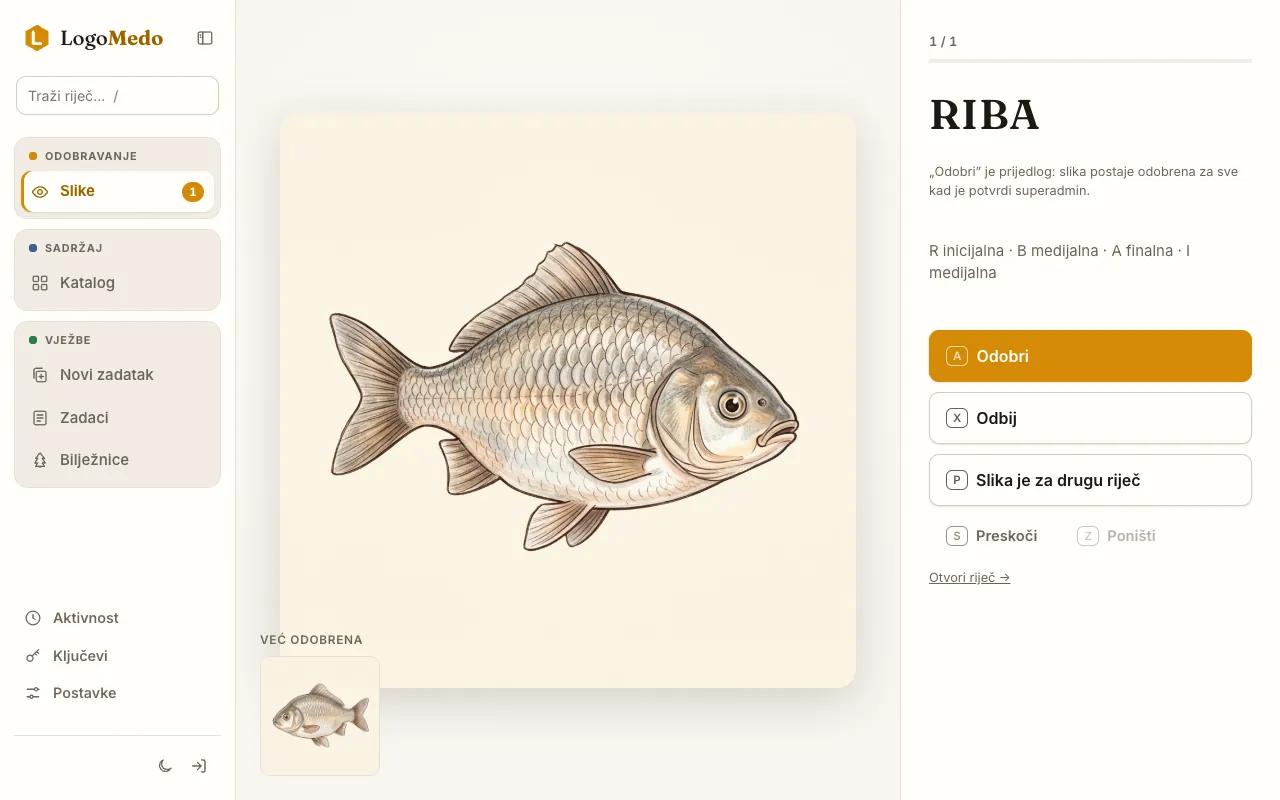
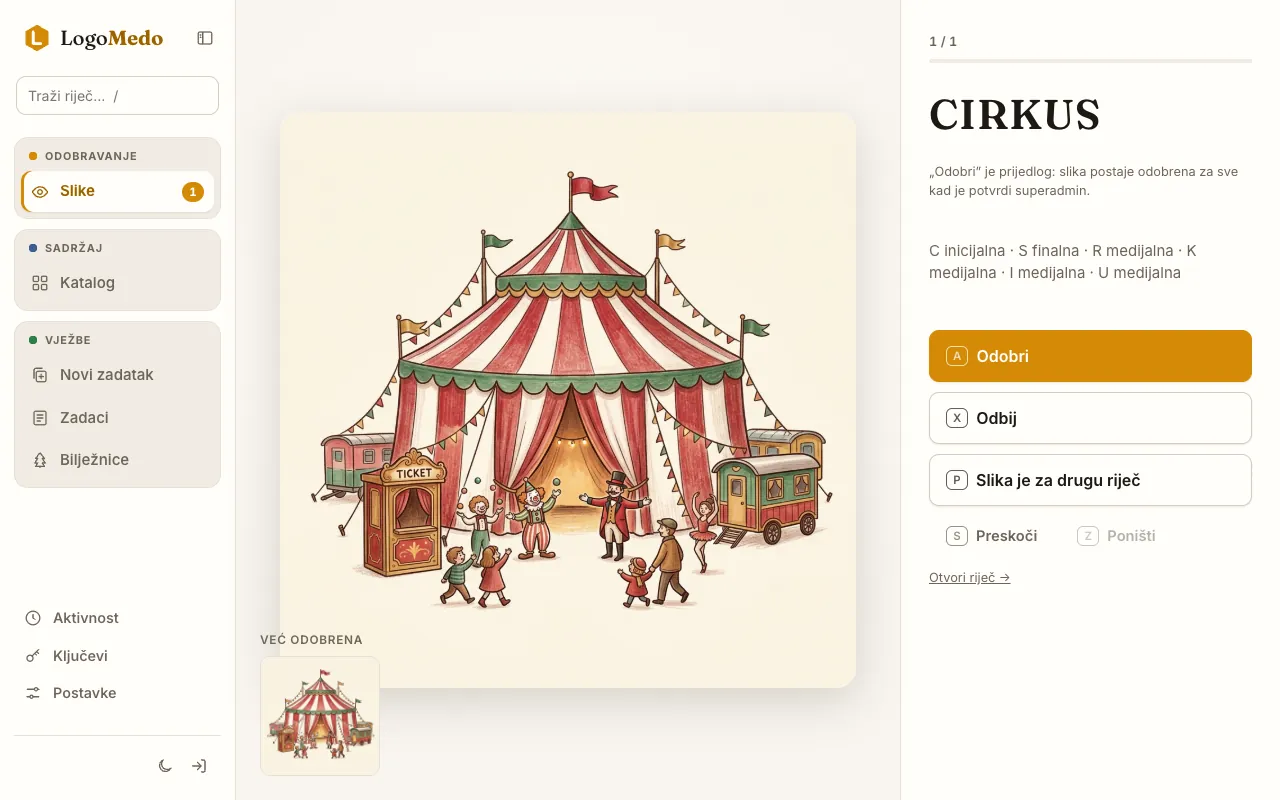
feat(landing): cirkus umjesto ribe na snimci pregleda slike (odluka 801)
Claude-Session: https://claude.ai/code/session_015y6PHnVoXKv6mj4JuCF3KD

diff --git a/scripts/landing-snimke.ts b/scripts/landing-snimke.ts
@@ -4,6 +4,7 @@
 //   node scripts/landing-snimke.ts                 # sve snimke
 //   node scripts/landing-snimke.ts V-2 V-7         # samo te
 //   node scripts/landing-snimke.ts --pripremi      # jednom: probni zadaci, bilježnice i slika za pregled (vidi dolje)
+//   node scripts/landing-snimke.ts --pregled       # nova slika-kandidat za V-10 (PREGLED), stara se odbije na stagingu
 //   node scripts/landing-snimke.ts --rime          # samo upiše fiksne rime (RIME) u postojeći zadatak „Rima”
 //
 // Prijava: kolačić sesije iz env LOGOMEDO_KOLACIC ili ~/.cache/logomedo-staging/kolacic (samo vrijednost,
@@ -20,8 +21,8 @@
 // --pripremi (nakon svakog `scripts/staging-osvjezi.sh`, jer osvježavanje briše staging podatke) kroz iste HTTP forme
 // kao admin UI napravi: listić „Glas R na početku” (dva: bez okvira i s okvirom), „Prvi glas” (kolo slova),
 // „Prebrajanje slogova”, „Rima”, „Izbaci uljeza”, „Isti prvi glas”, scenu „Pečemo kolačiće”, bilježnice „Zimska
-// bilježnica” (Božić) i „Proljetna bilježnica” (Proljeće), javne, i jednu sliku-kandidata za /admin/pregled (zrcaljena
-// kopija odobrene ilustracije ribe s cdn.logomedo.com, učitana kao upload). Ne generira ništa (Vertex, ElevenLabs, runner).
+// bilježnica” (Božić) i „Proljetna bilježnica” (Proljeće), javne, i jednu sliku-kandidata za /admin/pregled (malo
+// izmijenjena kopija odobrene ilustracije cirkusa s cdn.logomedo.com, učitana kao upload). Ne generira ništa (Vertex, ElevenLabs, runner).
 import { chromium, type Browser, type BrowserContext, type Page } from "playwright-core";
 import { execFileSync } from "node:child_process";
 import { copyFileSync, existsSync, mkdirSync, mkdtempSync, readFileSync, statSync, writeFileSync } from "node:fs";
@@ -440,6 +441,37 @@ async function postaviRime(page: Page, id: number) {
   await spremi(page, id, { sadrzaj: { odnos: "rima", stavke: RIME.map(([z, p, t]) => ({ zadana: rid(z), ponudeno: p.map(rid), tocno: t })) } });
 }
 
+/**
+ * Slika za /admin/pregled (V-10): malo izmijenjena kopija odobrene ilustracije cirkusa, upload kao kandidat (ne generira se).
+ * Do odluke 801 bila je riba.
+ */
+const PREGLED = { rijec: "cirkus", kljuc: "ilustracija/cirkus/c2f5720c99964f3c.png" } as const;
+
+async function slikaZaPregled(page: Page, rijeci: PodaciEditora["rijeci"]): Promise<number | null> {
+  const r = rijeci.find((x) => x.rijec.toLocaleLowerCase("hr") === PREGLED.rijec);
+  if (!r) { console.warn(`Slika za pregled: nema riječi „${PREGLED.rijec}”.`); return null; }
+  const o = await fetch(`https://cdn.logomedo.com/${PREGLED.kljuc}`);
+  if (!o.ok) { console.warn(`Slika za pregled: CDN ${o.status}.`); return null; }
+  const png = join(mkdtempSync(join(tmpdir(), "snimke-upload-")), `${PREGLED.rijec}.png`);
+  writeFileSync(png, Buffer.from(await o.arrayBuffer()));
+  // Neznatno izmijenjena (zasićenje +2 %), da nije isti sha kao odobrena; ne zrcali se, jer bi natpis „TICKET” bio naopak.
+  execFileSync("magick", [png, "-modulate", "100,102", png], { stdio: "ignore" });
+  const b64 = readFileSync(png).toString("base64");
+  await page.goto(`${HOST}/admin/pregled`, { waitUntil: "domcontentloaded" });
+  const kamo = await page.evaluate(async ({ b64, rijec, ime }) => {
+    const bajtovi = Uint8Array.from(atob(b64), (c) => c.charCodeAt(0));
+    const f = new FormData();
+    f.append("slika", new File([bajtovi], ime, { type: "image/png" }));
+    f.append("rijec", String(rijec)); f.append("stil", "ilustracija"); f.append("next", "/admin/pregled");
+    f.append("prompt", "Probna slika za snimku landing stranice: kopija odobrene ilustracije.");
+    const o = await fetch("/admin/api/upload", { method: "POST", body: f });
+    return new URL(o.url).search;
+  }, { b64, rijec: r.id, ime: `${PREGLED.rijec}.png` });
+  const id = Number(new URLSearchParams(kamo).get("ucitano")) || null;
+  if (!id) console.warn("Upload slike za pregled nije uspio.");
+  return id;
+}
+
 const nasumicno = () => Math.random().toString(36).slice(2, 8);
 
 async function pripremi() {
@@ -499,31 +531,7 @@ async function pripremi() {
       proljetna: await biljeznica("Proljetna bilježnica", "proljece", [z.istiGlas, z.prviGlas, z.slogovi]),
     };
 
-    // Slika za /admin/pregled: zrcaljena kopija odobrene ilustracije ribe, upload kao kandidat (ne generira se).
-    let slikaPregleda: number | null = null;
-    const riba = pe.rijeci.find((x) => x.rijec.toLocaleLowerCase("hr") === "riba");
-    if (riba) {
-      const dir = mkdtempSync(join(tmpdir(), "snimke-upload-"));
-      const png = join(dir, "riba.png");
-      const o = await fetch("https://cdn.logomedo.com/ilustracija/riba/08b78c1b64f7ace1.png");
-      if (o.ok) {
-        writeFileSync(png, Buffer.from(await o.arrayBuffer()));
-        execFileSync("sips", ["-f", "horizontal", png], { stdio: "ignore" });
-        const b64 = readFileSync(png).toString("base64");
-        await page.goto(`${HOST}/admin/pregled`, { waitUntil: "domcontentloaded" });
-        const kamo = await page.evaluate(async ({ b64, rijec }) => {
-          const bajtovi = Uint8Array.from(atob(b64), (c) => c.charCodeAt(0));
-          const f = new FormData();
-          f.append("slika", new File([bajtovi], "riba.png", { type: "image/png" }));
-          f.append("rijec", String(rijec)); f.append("stil", "ilustracija"); f.append("next", "/admin/pregled");
-          f.append("prompt", "Probna slika za snimku landing stranice: zrcaljena kopija odobrene ilustracije.");
-          const o = await fetch("/admin/api/upload", { method: "POST", body: f });
-          return new URL(o.url).search;
-        }, { b64, rijec: riba.id });
-        slikaPregleda = Number(new URLSearchParams(kamo).get("ucitano")) || null;
-        if (!slikaPregleda) console.warn("Upload slike za pregled nije uspio.");
-      }
-    }
+    const slikaPregleda = await slikaZaPregled(page, pe.rijeci);
 
     mkdirSync(CACHE, { recursive: true });
     writeFileSync(PROBNI, JSON.stringify({ zadaci: z, biljeznice, slikaPregleda } satisfies Probni, null, 2), { mode: 0o600 });
@@ -547,6 +555,29 @@ async function samoRime() {
   }
 }
 
+/**
+ * --pregled: nova slika za V-10 (PREGLED). Stari kandidat u staging D1 postaje „odbijena” (wrangler, samo staging), da
+ * pregled ima točno jednu sliku; novi ID ide u probni.json.
+ */
+async function samoPregled() {
+  const p: Probni = JSON.parse(readFileSync(PROBNI, "utf8"));
+  if (p.slikaPregleda) execFileSync("npx", ["wrangler", "d1", "execute", "DB", "--remote", "--config", "wrangler.jsonc", "--env", "staging",
+    "--command", `UPDATE slike SET status = 'odbijena' WHERE id = ${Number(p.slikaPregleda)} AND status = 'kandidat'`],
+    { stdio: "ignore", cwd: join(import.meta.dirname, ".."), env: { ...process.env, CLOUDFLARE_ACCOUNT_ID: "7dc7167b7e2e00923bfa7cd697df14e4" } });
+  const b = await chromium.launch({ channel: "chrome" });
+  try {
+    const ctx = await kontekst(b, "desktop", "svijetla");
+    const page = await ctx.newPage();
+    p.slikaPregleda = await slikaZaPregled(page, (await editor(page, p.zadaci.scena)).rijeci);
+    await ctx.unrouteAll({ behavior: "ignoreErrors" });
+    writeFileSync(PROBNI, JSON.stringify(p, null, 2), { mode: 0o600 });
+    console.log(`Slika za pregled: ${p.slikaPregleda ? "nova" : "nije uspjela"}.`);
+  } finally {
+    await b.close();
+  }
+}
+
 if (process.argv.includes("--pripremi")) await pripremi();
+else if (process.argv.includes("--pregled")) await samoPregled();
 else if (process.argv.includes("--rime")) await samoRime();
 else await snimaj(process.argv.slice(2).filter((a) => /^V-\d+$/.test(a)));

diff --git a/docs/landing/decisions.md b/docs/landing/decisions.md
@@ -392,3 +392,7 @@ Lighthouse: `research/2026-11-19-lighthouse.md`. Staging `05029b71`, provjera 14
      bilježnica) više nije nasumičan iz predloška (bile su FRULA–BROKULA i SLOVA–SOVA): `RIME` u
      `scripts/landing-snimke.ts` (KAPA–ŠAPA, ČAJ–ZMAJ, SLON–BALON, CRKVA–MRKVA), `--rime` ih upiše u postojeći
      probni zadatak. V-4 tako pokazuje SLON–BALON, V-20 CRKVA–MRKVA. `sadrzaj.md` i dalje vrijedi i usklađen je.
+801. **Bez ribe i na snimci pregleda** (korisnik): V-10 (`/katalog`, „Svaku sliku pregleda logoped”) pokazuje kandidata
+     CIRKUS (`ilustracija/cirkus/c2f5720c99964f3c.png`) umjesto RIBE. Kopija se više ne zrcali (natpis „TICKET” bio bi
+     naopak), nego dobije zasićenje +2 %, da sha nije isti kao odobrenoj. `scripts/landing-snimke.ts --pregled` stari
+     kandidat u staging D1 označi „odbijena” i učita novi.
